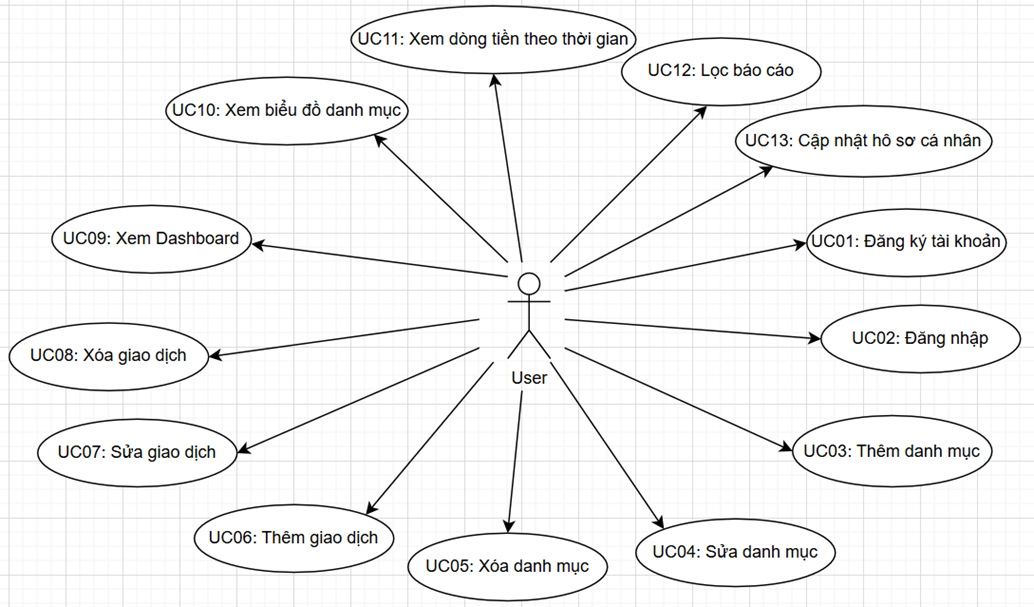
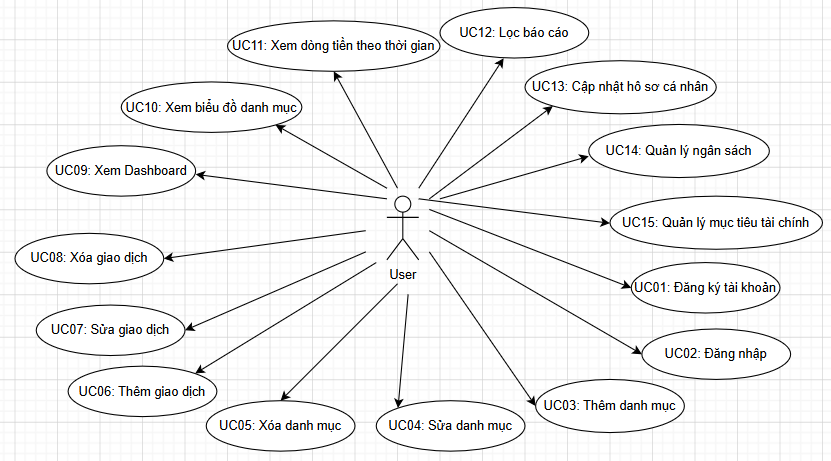
update

diff --git a/README.md b/README.md
@@ -86,6 +86,12 @@
 - Biểu đồ hoạt động chức năng cập nhật hồ sơ cá nhân
 ![Activity Cập nhật hồ sơ cá nhân](Resources/images/Accapnhathoso.png)
 ---
+- Biểu đồ hoạt động chức năng quản lý ngân sách
+![Activity Quản lý ngân sách](Resources/images/Acquanlyngansach.png)
+---
+- Biểu đồ hoạt động chức năng quản lý mục tiêu tài chính
+![Activity Quản lý mục tiêu tài chính](Resources/images/Acquanlymuctieu.png)
+---
 ### Sequence Diagram
 - Biểu đồ tuần tự chức năng đăng ký
 ![Tuần tự Đăng ký](Resources/images/TT-dangky.png)
@@ -126,7 +132,12 @@
 - Biểu đồ tuần tự chức năng cập nhật hồ sơ cá nhân
 ![Tuần tự Cập nhật hồ sơ cá nhân](Resources/images/TT-capnhathoso.png)
 ---
-
+- Biểu đồ tuần tự chức năng quản lý ngân sách
+![Tuần tự Quản lý ngân sách](Resources/images/TT-quanlyngansach.png)
+---
+- Biểu đồ tuần tự chức năng quản lý mục tiêu
+![Tuần tự Quản lý mục tiêu tài chính](Resources/images/TT-quanlymuctieu.png)
+---
 
 ## 🔄 Luồng hoạt động của hệ thống
 